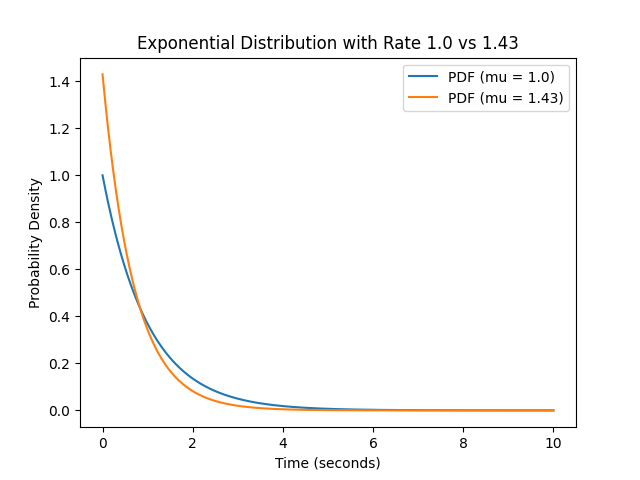
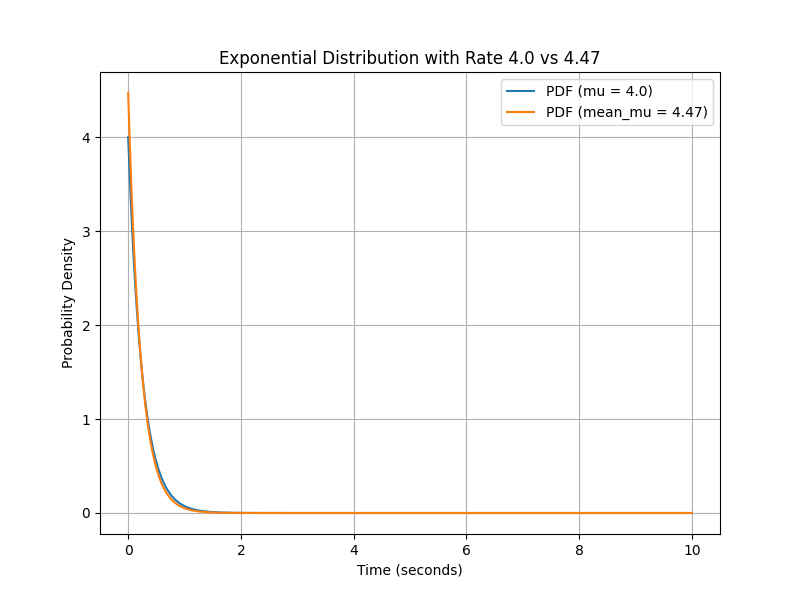
Structured code: added app.py, analysis.py, plotting.py, routes.py, tasks.py. Managed different mu_parameters for the server. Managed different plotting, based on the mu_parameter. Note: mean mu evalutaion was corrected.

diff --git a/old_scripts/server.py b/old_scripts/server.py
@@ -1,23 +1,3 @@
-"""
-import time
-
-# Funzione ricorsiva per calcolare il numero di Fibonacci
-def fibonacci(n):
-    if n <= 1:
-        return n
-    else:
-        return fibonacci(n-1) + fibonacci(n-2)
-
-# Esegui il calcolo per un numero grande per simulare un'operazione CPU-bound
-if __name__ == "__main__":
-    n = 35  # Un numero più grande richiede molto tempo e CPU per essere calcolato
-    start_time = time.time()
-
-    print(f"Fibonacci({n}) = {fibonacci(n)}")
-
-    end_time = time.time()
-    print(f"Tempo impiegato: {end_time - start_time} secondi")
-"""
 from flask import Flask, request, jsonify, send_file
 import numpy as np
 import pandas as pd
@@ -30,15 +10,17 @@ from datetime import datetime
 import requests
 
 app = Flask(__name__)
-image_path="plot.png"
-# Global variable to store the 'mu' value
-mu = None  # This will be initialized via an API call
 
+# Image path
+image_path="plot.png"
 # File to store the delays
 csv_file = 'request_delays.csv'
+# Global variable to store the 'mu' value
+file_path = "request_delays.csv"
+
 
 # Function to log the delay in the CSV file
-def log_delay_to_csv(delay):
+def log_delay_to_csv(mu,delay):
     # Check if file exists to write headers only once
     file_exists = os.path.isfile(csv_file)
     
@@ -47,9 +29,9 @@ def log_delay_to_csv(delay):
         writer = csv.writer(file)
         # If file does not exist, write the header
         if not file_exists:
-            writer.writerow(['timestamp', 'delay'])  # Writing the header
+            writer.writerow(['mu', 'delay'])  # Writing the header
         # Write the current timestamp and delay
-        writer.writerow([datetime.now().isoformat(), delay])
+        writer.writerow([mu, delay])
 
 # Function to simulate a CPU-bound task
 def cpu_bound_task(duration):
@@ -59,43 +41,46 @@ def cpu_bound_task(duration):
         # Simulate heavy CPU task by performing unnecessary calculations
         math.sqrt(12345.6789) * math.sqrt(98765.4321)
 
-def analyze_csv(file_path):
+# Function that evaluate the mean of the real delays
+def analyze_csv(file_path, mu): 
     data = pd.read_csv(file_path)
-    mean_delay = data['delay'].mean()
-    return mean_delay
+    filtered_data = data[data['mu'] == mu]
+    mean_delay = filtered_data['delay'].mean()
+    return 1/mean_delay
 
 
-def generate_exponential_plot(mu, mean_delay):   
+def generate_exponential_plot(mu, mean_mu):   
     # Generate a range of time values
     time_values = np.linspace(0, 10, 1000)
     
     # Calculate the probability density function (PDF) of the exponential distribution
     pdf = mu * np.exp(-mu * time_values)
-    pdf_mean = mean_delay * np.exp(-mean_delay * time_values)
+    pdf_mean = mean_mu * np.exp(-mean_mu * time_values)
 
     # Plot the PDF with the exponential distribution over time 
-    # mu and mean_delay are used
+    # mu and mean_mu are used
     plt.plot(time_values, pdf)
     plt.plot(time_values, pdf_mean)
 
     plt.xlabel('Time (seconds)')
     plt.ylabel('Probability Density')
-    plt.title(f'Exponential Distribution with Rate {mu} vs {mean_delay:.2f}')
-    plt.legend([f'PDF (mu = {mu})', f'PDF (mu = {mean_delay:.2f})'])
+    plt.title(f'Exponential Distribution with Rate {mu} vs {mean_mu:.2f}')
+    plt.legend([f'PDF (mu = {mu})', f'PDF (mu = {mean_mu:.2f})'])
     plt.savefig(image_path)  # Save the plot to a file
     plt.close()
 
 
-@app.route('/plot')
-def plot(mu = 1.0, file_path = "request_delays.csv"):
-    mean_delay = analyze_csv(file_path)  # Get the mean delay
+@app.route('/plot', methods=['GET'])
+def plot():
+    mu = float(request.args.get('mu', 1.0)) # 1.0 is the default value
+    mean_delay = analyze_csv(file_path, mu)  # Get the mean delay
     generate_exponential_plot(mu, mean_delay)  # Generate the plot
-    return send_file(image_path, mimetype='image/png')
+    return send_file(image_path, mimetype='image/png') # return the image plot
 
 @app.route('/', methods=['GET'])
 def process_task():
     #get the mu parameter from GET request
-    mu = float(request.args.get('mu',1.0))
+    mu = float(request.args.get('mu', 1.0)) # 1.0 is the default value
     
     # Generate a delay based on the exponential distribution with rate 'mu'
     delay = np.random.exponential(1.0 / mu)
@@ -104,7 +89,7 @@ def process_task():
     cpu_bound_task(delay)
     
     # Log the delay to the CSV file
-    log_delay_to_csv(delay)
+    log_delay_to_csv(mu, delay)
 
     # Return a JSON response indicating the task was completed
     return jsonify({"message": "Task completed", "duration": delay})
@@ -118,15 +103,6 @@ def reset():
     
     #return an http response
     return jsonify({"message": "Reset completed"})
-
-@app.route('/requests', methods=['GET'])
-#perform like 10 clients requests
-def perform_requests():
-    for _ in range(10):
-        response = requests.get('http://localhost:5000/')
-        print(response.json())
-    return jsonify({"message": "10 requests performed"})
-
 
 if __name__ == '__main__':
     # Start the Flask server

diff --git a/routes.py b/routes.py
@@ -1,0 +1,41 @@
+from flask import request, jsonify, send_file
+import numpy as np
+from tasks import cpu_bound_task, log_delay_to_csv
+from analysis import analyze_csv
+from plotting import generate_exponential_plot
+import os
+
+image_path = "plot.png"  # Path for saving the plot image
+
+def setup_routes(app):
+    @app.route('/plot', methods=['GET'])
+    def plot():
+        mu = float(request.args.get('mu', 1.0))  # Default mu value
+        mean_delay = analyze_csv("request_delays.csv", mu)  # Get the mean delay
+        generate_exponential_plot(mu, mean_delay, image_path)  # Generate the plot
+        return send_file(image_path, mimetype='image/png')  # Return the image plot
+
+    @app.route('/', methods=['GET'])
+    def process_task():
+        mu = float(request.args.get('mu', 1.0))  # Default mu value
+        
+        # Generate a delay based on the exponential distribution with rate 'mu'
+        delay = np.random.exponential(1.0 / mu)
+        
+        # Simulate the CPU-bound task for the duration of the 'delay'
+        cpu_bound_task(delay)
+        
+        # Log the delay to the CSV file
+        log_delay_to_csv(mu, delay)
+
+        # Return a JSON response indicating the task was completed
+        return jsonify({"message": "Task completed", "duration": delay})
+
+    @app.route('/reset', methods=['GET'])
+    def reset():
+        # Remove the CSV file if it exists
+        if os.path.isfile("request_delays.csv"):
+            os.remove("request_delays.csv")
+        
+        # Return an HTTP response
+        return jsonify({"message": "Reset completed"})

diff --git a/old_scripts/loggin.py b/old_scripts/loggin.py
@@ -1,0 +1,40 @@
+# Function to log the delay in the CSV file
+def log_delay_to_csv(mu,delay):
+    # Check if file exists to write headers only once
+    file_exists = os.path.isfile(csv_file)
+    
+    # Open the CSV file in append mode
+    with open(csv_file, mode='a', newline='') as file:
+        writer = csv.writer(file)
+        # If file does not exist, write the header
+        if not file_exists:
+            writer.writerow(['mu', 'delay'])  # Writing the header
+        # Write the current timestamp and delay
+        writer.writerow([mu, delay])
+
+# Function that evaluate the mean of the real delays
+def analyze_csv(file_path, mu): 
+    data = pd.read_csv(file_path)
+    filtered_data = data[data['mu'] == mu]
+    mean_delay = filtered_data['delay'].mean()
+    return 1/mean_delay
+
+def generate_exponential_plot(mu, mean_mu):   
+    # Generate a range of time values
+    time_values = np.linspace(0, 10, 1000)
+    
+    # Calculate the probability density function (PDF) of the exponential distribution
+    pdf = mu * np.exp(-mu * time_values)
+    pdf_mean = mean_mu * np.exp(-mean_mu * time_values)
+
+    # Plot the PDF with the exponential distribution over time 
+    # mu and mean_mu are used
+    plt.plot(time_values, pdf)
+    plt.plot(time_values, pdf_mean)
+
+    plt.xlabel('Time (seconds)')
+    plt.ylabel('Probability Density')
+    plt.title(f'Exponential Distribution with Rate {mu} vs {mean_mu:.2f}')
+    plt.legend([f'PDF (mu = {mu})', f'PDF (mu = {mean_mu:.2f})'])
+    plt.savefig(image_path)  # Save the plot to a file
+    plt.close()

diff --git a/plotting.py b/plotting.py
@@ -1,0 +1,24 @@
+import numpy as np
+import matplotlib.pyplot as plt
+
+def generate_exponential_plot(mu, mean_mu, image_path):
+    """Generate and save an exponential distribution plot."""
+    # Generate a range of time values
+    time_values = np.linspace(0, 10, 1000)
+    
+    # Calculate the probability density function (PDF) of the exponential distribution
+    pdf = mu * np.exp(-mu * time_values)
+    pdf_mean = mean_mu * np.exp(-mean_mu * time_values)
+
+    # Plot the PDF with the exponential distribution over time
+    plt.figure(figsize=(8, 6))
+    plt.plot(time_values, pdf, label=f'PDF (mu = {mu})')
+    plt.plot(time_values, pdf_mean, label=f'PDF (mean_mu = {mean_mu:.2f})')
+
+    plt.xlabel('Time (seconds)')
+    plt.ylabel('Probability Density')
+    plt.title(f'Exponential Distribution with Rate {mu} vs {mean_mu:.2f}')
+    plt.legend()
+    plt.grid(True)
+    plt.savefig(image_path)  # Save the plot to a file
+    plt.close()

diff --git a/tasks.py b/tasks.py
@@ -1,0 +1,27 @@
+import os
+import csv
+import math
+import time
+
+csv_file = 'request_delays.csv'
+
+def log_delay_to_csv(mu, delay):
+    """Log the delay into a CSV file."""
+    # Check if file exists to write headers only once
+    file_exists = os.path.isfile(csv_file)
+
+    # Open the CSV file in append mode
+    with open(csv_file, mode='a', newline='') as file:
+        writer = csv.writer(file)
+        # If file does not exist, write the header
+        if not file_exists:
+            writer.writerow(['mu', 'delay'])  # Writing the header
+        # Write the current timestamp and delay
+        writer.writerow([mu, delay])
+
+def cpu_bound_task(duration):
+    """Simulate a CPU-bound task."""
+    end_time = time.time() + duration
+    while time.time() < end_time:
+        # Simulate heavy CPU task by performing unnecessary calculations
+        math.sqrt(12345.6789) * math.sqrt(98765.4321)

diff --git a/analysis.py b/analysis.py
@@ -1,0 +1,12 @@
+import pandas as pd
+
+def analyze_csv(file_path, mu):
+    """Analyze the CSV file and return the mean delay for a given mu."""
+    data = pd.read_csv(file_path)
+    filtered_data = data[data['mu'] == mu]
+    
+    if not filtered_data.empty:
+        mean_delay = filtered_data['delay'].mean()
+        return 1 / mean_delay  # Return the rate (1/mean delay)
+    else:
+        raise ValueError(f"No data found for mu = {mu}")

diff --git a/app.py b/app.py
@@ -1,0 +1,10 @@
+from flask import Flask
+from routes import setup_routes
+
+app = Flask(__name__)
+
+# Set up routes
+setup_routes(app)
+
+if __name__ == '__main__':
+    app.run(debug=True)
